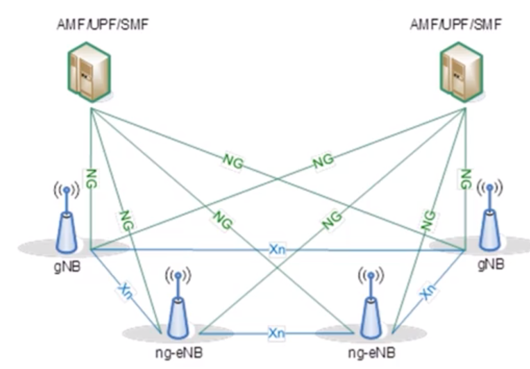
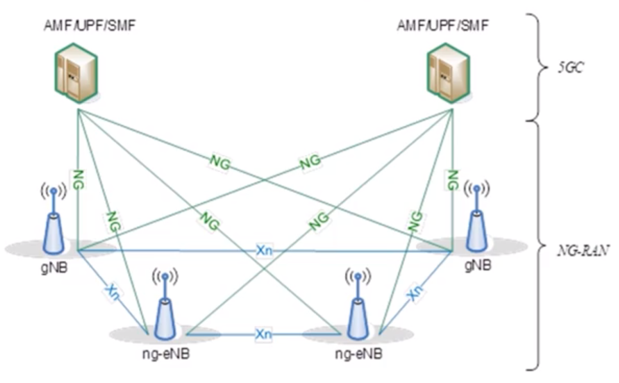
vault backup: 2024-03-01 15:59:15

Changed region(s): [[0.0, 0.0298, 1.0, 0.9837], [0.2415, 0.4472, 0.2717, 0.477]]

diff --git a/Note/DT/issue1.md b/Note/DT/issue1.md
@@ -1,14 +1,23 @@
 
-# 5G移动通信系统
-## 系统整体架构
+## 5G移动通信系统
 ![](/Image/01.png)
-1. 5GC(5G核心网)
-2. NG-RAN(5G无线接入网):gNB、ng-eNB
-5GC与NG-RAN之间通过NG接口连接；NG-RAN之间通过Xn接口连接
+$$
+系统整体架构
+\begin{cases}
+5GC(5G核心网)\\
+NG-RAN(5G无线接入网):gNB、ng-eNB
+\end{cases}
+$$
+在5GC与NG-RAN之间通过NG接口连接；而NG-RAN之间通过Xn接口连接
 
-# 4G移动通信系统
-## 系统整体架构
-1. EPC(演进分组核心网)
-2. E-UTRAN(演进通用陆地无线接入网络):eNB
-EPC与E-UTRAN之间通过S1接口连接；E-UTRAN之间通过X2接口连接
+## 4G移动通信系统
+![](/Image/02.png)
+$$
+系统整体架构
+\begin{cases}
+EPC(演进分组核心网)\\
+E-UTRAN(演进通用陆地无线接入网络):eNB
+\end{cases}
+$$
+在EPC与E-UTRAN之间通过S1接口连接；而E-UTRAN之间通过X2接口连接
 
